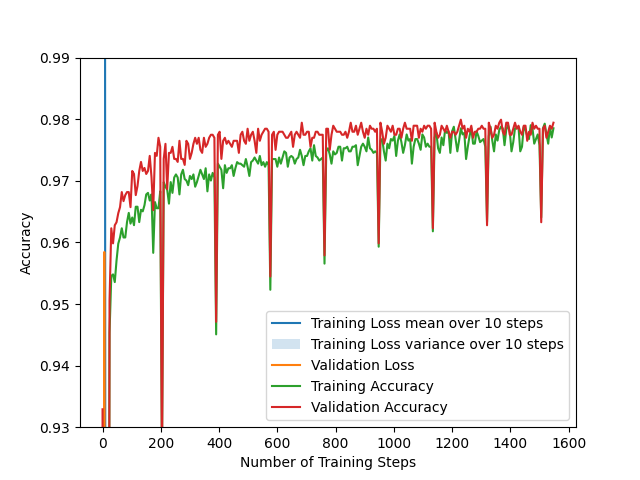
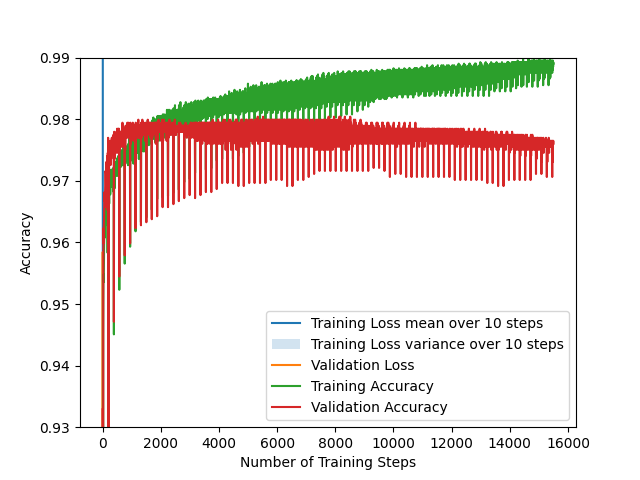
Images for 500 epoch setting

diff --git a/assignment1/task2.py b/assignment1/task2.py
@@ -81,7 +81,7 @@ class LogisticTrainer(BaseTrainer):
 
 def main():
     # hyperparameters DO NOT CHANGE IF NOT SPECIFIED IN ASSIGNMENT TEXT
-    num_epochs = 50
+    num_epochs = 500
     learning_rate = 0.05
     batch_size = 128
     shuffle_dataset = False
